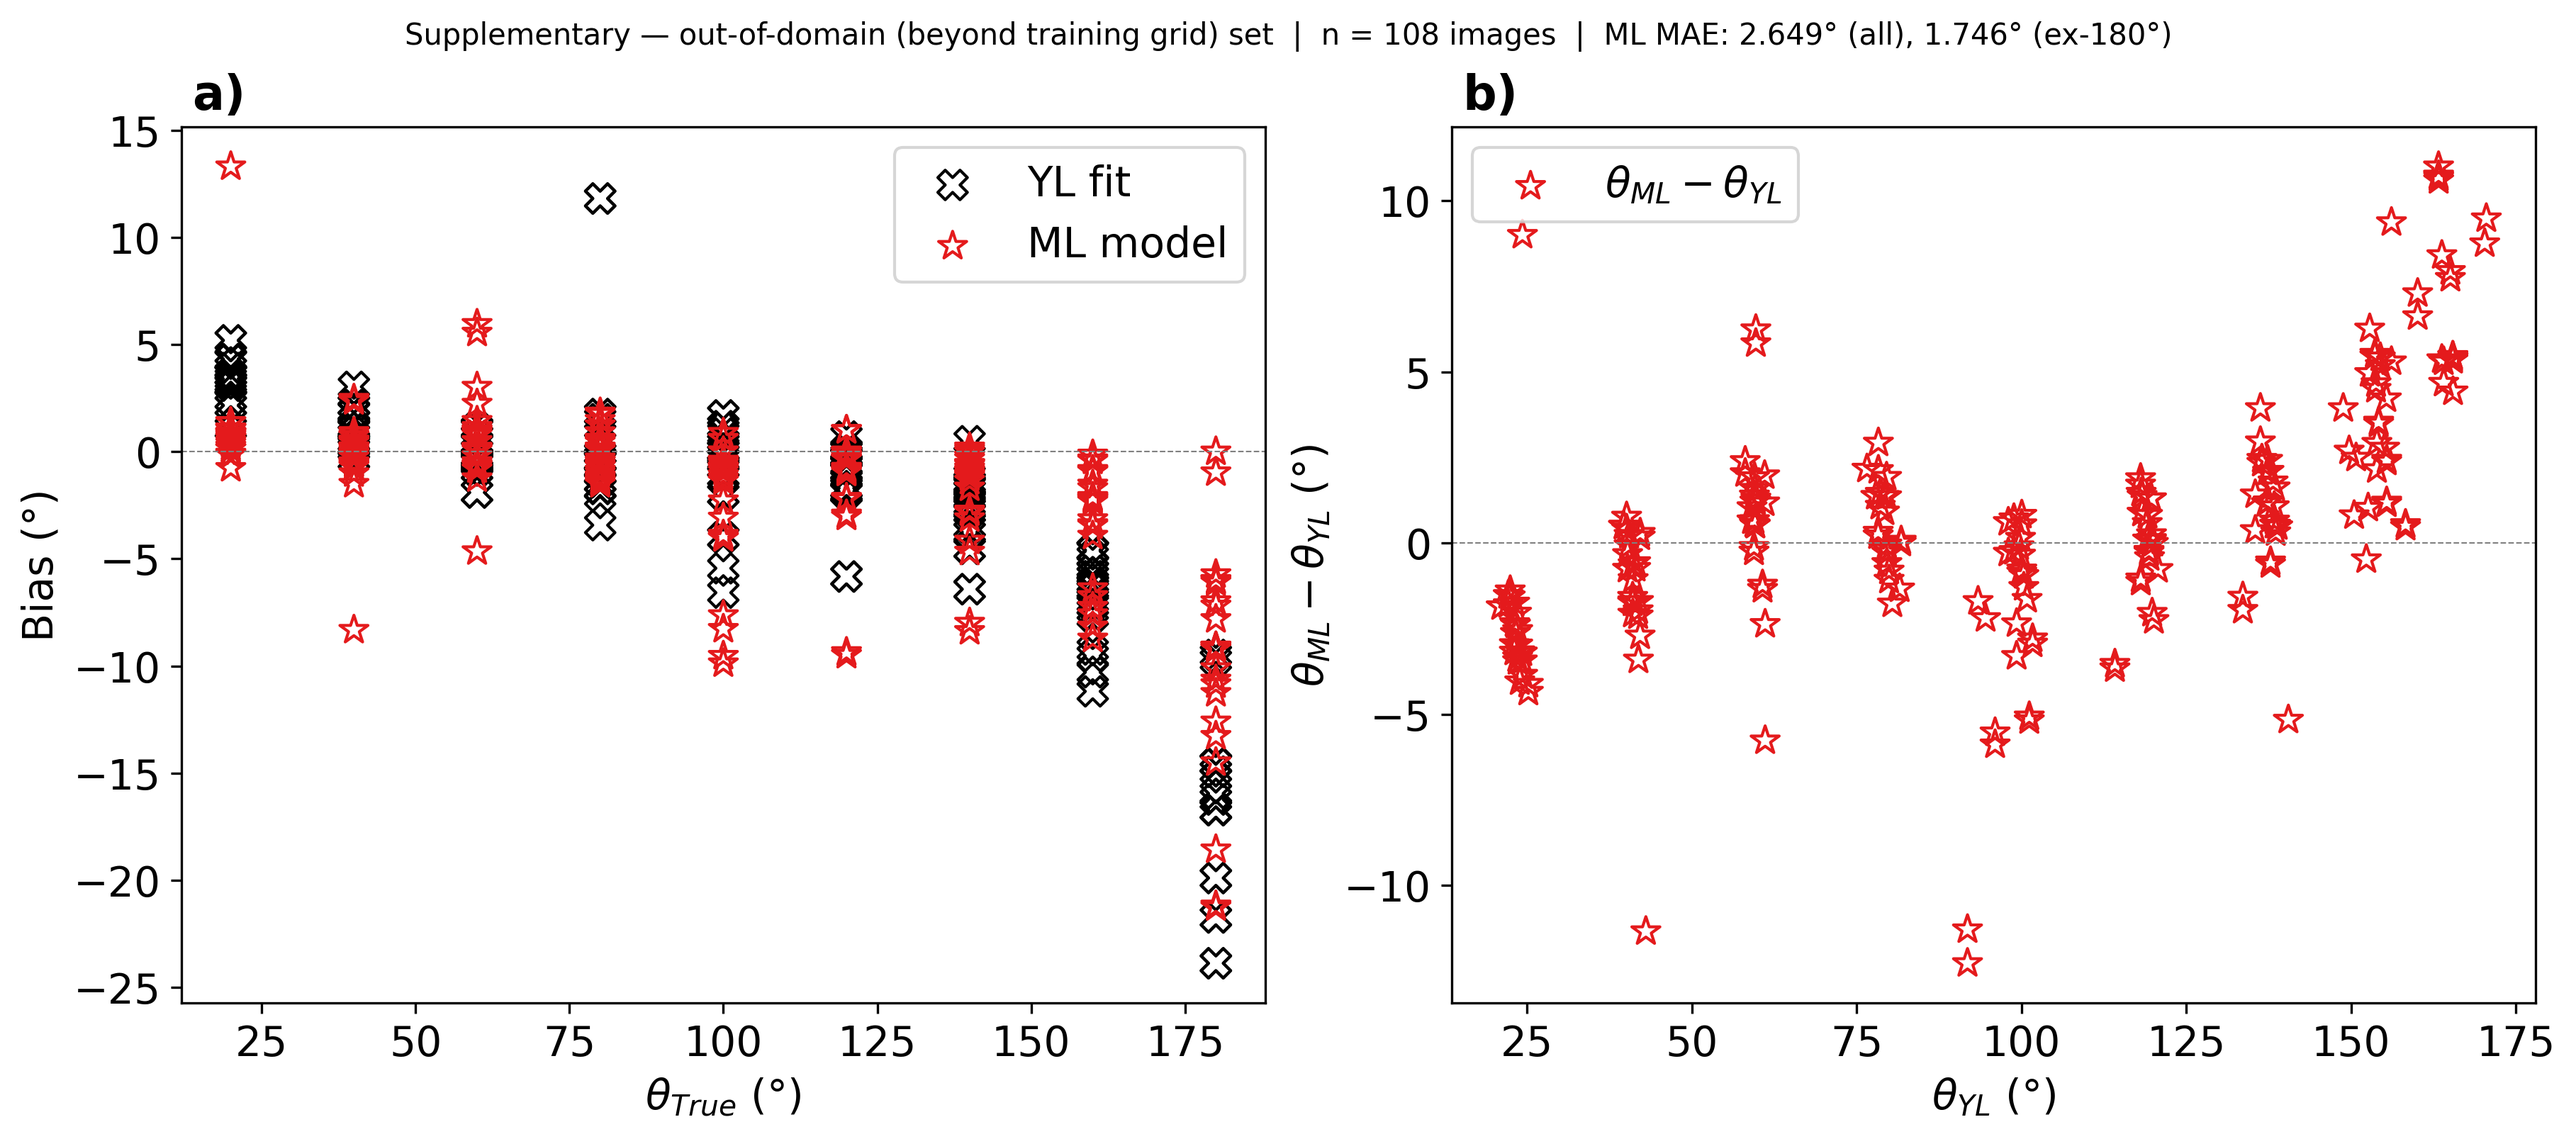
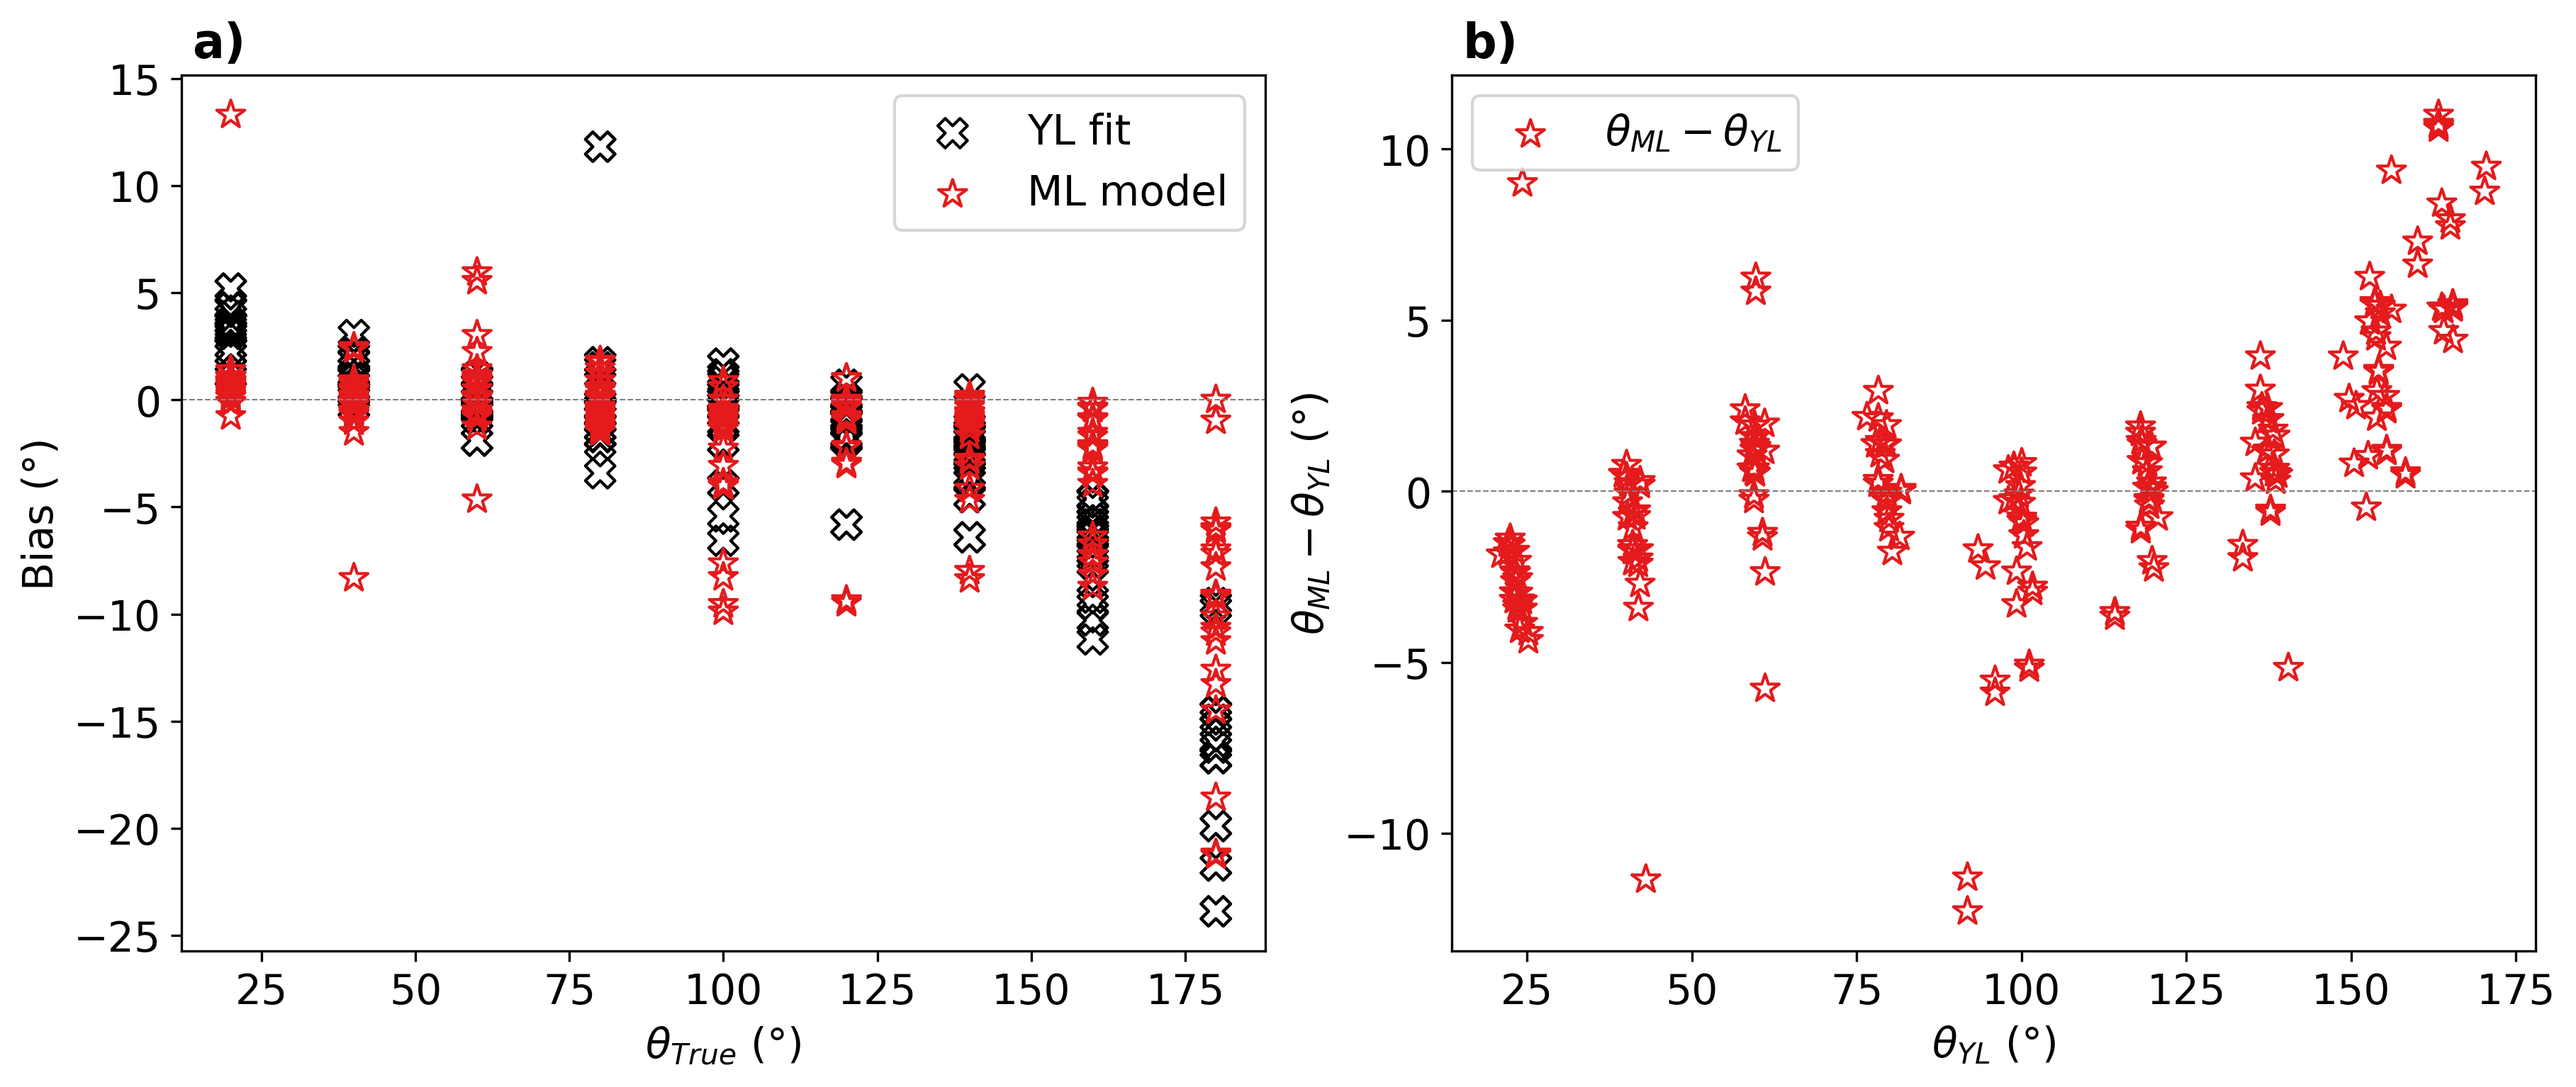
fix(paper_results): recurate the CP close-up composite and drop figure suptitles
Two related pieces of cleanup on the in-domain/out-of-domain synthetic
figures introduced in the previous commit:

Suptitles removed from synthetic_agreement_5panel[.png|_si_outdomain.png]
and synthetic_bias_and_disagreement[.png|_si_outdomain.png]. The n/MAE
label these carried belongs in the paper's own figure caption/title, so
drawing the same text on the image duplicated it and risked drifting out
of sync. domain_suptitle() renamed domain_summary_line(), kept only for
the console log and as the source of the numbers to quote in the caption.

The i)-iv) CP close-up walk-through candidates were still on-grid
filenames left over from before the off-grid/in-domain swap, so they
silently no-op'd. Reselected from the 216-image in-domain set by ML bias
(ml_angle - gt_angle) per side, all four now following the same
highest-bias-at-this-angle rule:

  i)   40.0_0.9500_2.8300_0.0090 right, bias -13.56 deg
  ii)  100.0_0.9500_2.8300_0.0030 right, bias -2.99 deg (highest |bias|)
  iii) 120.0_0.1500_1.4100_0.0030 left, bias -1.82 deg (second-highest
       |bias| at 120 deg, distinct image from the top pick)
  iv)  180.0_0.5500_1.4100_0.0090 left, bias 0.0 deg (maximum signed bias;
       ml_left_angle is exactly 180.0 -- a boundary clip, not a genuinely
       accurate prediction, kept because it is the true maximum)

Applied to both plot_synthetic.py's composite_systems (roman-numeral
annotations on both panels of synthetic_bias_and_disagreement.png, with
[…]

diff --git a/paper_results/plot/plot_synthetic.py b/paper_results/plot/plot_synthetic.py
@@ -4,11 +4,13 @@
 The synthetic set is placed off the training grid (PART2 §7.3.2), so each
 image carries an `in_domain` label (results/synthetic_matrix.csv):
 in-domain cells fall between training-grid points, out-of-domain cells lie
-beyond it. Per PART2 §7.3.3/D1′, these are reported as two separate,
-independently labelled figures rather than one panel with marked points --
-the in-domain set (216 images) is the main-text synthetic evaluation, and
-the out-of-domain set (108 images) is a supplementary robustness figure
-documenting how error behaves beyond the training grid.
+beyond it. Per PART2 §7.3.3/D1′, these are reported as two separate figures
+rather than one panel with marked points -- the in-domain set (216 images)
+is the main-text synthetic evaluation, and the out-of-domain set (108
+images) is a supplementary robustness figure documenting how error behaves
+beyond the training grid. Which figure is which, and the n/MAE for each,
+is stated in the paper's own figure caption/title rather than drawn on the
+image (see domain_summary_line() below for the numbers to quote there).
 
 Produces:
   - figures/synthetic/synthetic_agreement_5panel.png (main text, in-domain)
@@ -92,14 +94,20 @@ def mae_table(df):
     return pd.DataFrame(rows)
 
 
-def domain_suptitle(label, df, mt):
+# n and MAE are not drawn on the figures themselves -- the paper's own
+# figure caption/title states which set is which (main text vs SI) along
+# with these numbers, so baking them into the image would duplicate and
+# risk drifting from the caption text. domain_summary_line() is used only
+# for the console log below and for anyone regenerating these figures to
+# quote the same numbers in the caption.
+def domain_summary_line(label, df, mt):
     ml_row = mt.loc[mt.method == "ml"].iloc[0]
     return "{}  |  n = {} images  |  ML MAE: {:.3f}° (all), {:.3f}° (ex-180°)".format(
         label, len(df), ml_row["mae_all_angle"], ml_row["mae_excluding_180"]
     )
 
 
-def plot_agreement_5panel(df, suptitle, filename_suffix):
+def plot_agreement_5panel(df, filename_suffix):
     """3x2 multi-panel agreement scatter (5 methods, 6th panel removed).
 
     Matches legacy plot_synthetic_results.py In[13] layout:
@@ -139,11 +147,10 @@ def plot_agreement_5panel(df, suptitle, filename_suffix):
     for idx in range(len(FIGURE_METHODS), len(axes)):
         fig.delaxes(axes[idx])
 
-    fig.suptitle(suptitle, fontsize=10, y=1.01)
     save_figure(fig, SUBDIR, "synthetic_agreement_5panel{}.png".format(filename_suffix))
 
 
-def plot_bias_and_disagreement(df, suptitle, filename_suffix):
+def plot_bias_and_disagreement(df, filename_suffix):
     """Two-panel figure: bias vs true angle (YL + ML) and ML-YL disagreement.
 
     Reproduces legacy pred_vs_true_plots_experimental.py lines 1031-1053
@@ -234,25 +241,65 @@ def plot_bias_and_disagreement(df, suptitle, filename_suffix):
     axes[1].legend()
 
     # i)-iv) annotations linking to the curated systems shown in
-    # figures/CA_tangent_plots/synthetic_composite.png
+    # figures/CA_tangent_plots/synthetic_composite.png. Selected from the
+    # in-domain set (post PART2 7.3.2/7.3.3) by ML bias (ml_angle - gt_angle)
+    # per side: i) highest-bias 40 deg system, ii) highest-|bias| 100 deg
+    # system, iii) a high-but-not-the-single-highest-|bias| 120 deg system,
+    # iv) the highest-bias 180 deg system.
     composite_systems = [
         (
             "i)",
-            "20.0_0.6000000000000001_4.0_0.006_CPL_302_461_CPR_442_461_.png",
-            "left",
-            (0, 10),
+            "40.0_0.9500_2.8300_0.0090_CPL_273_461_CPR_471_461_.png",
+            "right",
+            (-12, 10),  # panel a: top-left
+            (-12, 10),  # panel b: top-left
         ),
-        ("ii)", "100.0_0.8_4.0_0.0_CPL_303_461_CPR_441_461_.png", "left", (-6, -26)),
-        ("iii)", "160.0_0.8_4.0_-0.03_CPL_331_447_CPR_413_447_.png", "left", (-6, 10)),
-        ("iv)", "180.0_1.0_1.0_0.006_CPL_234_461_CPR_510_461_.png", "left", (12, -14)),
+        (
+            "ii)",
+            "100.0_0.9500_2.8300_0.0030_CPL_274_461_CPR_470_461_.png",
+            "right",
+            (-12, -10),  # panel a: bottom-left
+            (-12, -10),  # panel b: bottom-left
+        ),
+        (
+            "iii)",
+            "120.0_0.1500_1.4100_0.0030_CPL_207_461_CPR_537_461_.png",
+            "left",
+            (-15, -10),  # panel a: bottom-left
+            (-15, -10),  # panel b: bottom-left
+        ),
+        (
+            # Maximum (signed, not absolute) 180 deg ML bias: ml_left_angle
+            # is exactly 180.0 here, i.e. bias == 0.0 -- an exact boundary
+            # clip (known trap), not a genuine near-perfect prediction. The
+            # next-highest genuine (non-clipped) value is -1.73 deg, at
+            # 180.0_0.9500_2.8300_0.0090 right.
+            "iv)",
+            "180.0_0.5500_1.4100_0.0090_CPL_296_461_CPR_448_461_.png",
+            "left",
+            (-13, -10),  # panel a: bottom-left
+            (15, -10),  # panel b: bottom-right
+        ),
     ]
-    for label, image_name, side, offset_b in composite_systems:
+    for label, image_name, side, offset_a, offset_b in composite_systems:
         row = df.loc[df["image_name"] == image_name]
         if row.empty:
             continue
         row = row.iloc[0]
+        gt_angle = row["gt_angle"]
         yl_angle = row[f"yl_{side}_angle"]
         ml_angle = row[f"ml_{side}_angle"]
+
+        # Panel a): Bias (ML - GT) vs true angle
+        axes[0].annotate(
+            label,
+            xy=(gt_angle, ml_angle - gt_angle),
+            xytext=offset_a,
+            textcoords="offset points",
+            ha="center",
+            fontsize=12,
+            fontweight="bold",
+        )
 
         # Panel b): (theta_ML - theta_YL) vs theta_YL
         axes[1].annotate(
@@ -265,7 +312,6 @@ def plot_bias_and_disagreement(df, suptitle, filename_suffix):
             fontweight="bold",
         )
 
-    fig.suptitle(suptitle, fontsize=10, y=1.04)
     save_figure(fig, SUBDIR, "synthetic_bias_and_disagreement{}.png".format(filename_suffix))
 
 
@@ -288,16 +334,15 @@ def main():
     for in_domain, suffix, label in DOMAIN_VARIANTS:
         subset = df[df["in_domain"] == in_domain].copy()
         mt = mae_table(subset)
-        suptitle = domain_suptitle(label, subset, mt)
         print()
-        print(suptitle)
+        print(domain_summary_line(label, subset, mt))
 
         mt.insert(0, "variant", "in_domain" if in_domain else "out_of_domain")
         mt.insert(1, "n_images", len(subset))
         summary_rows.append(mt)
 
-        plot_agreement_5panel(subset, suptitle, suffix)
-        plot_bias_and_disagreement(subset, suptitle, suffix)
+        plot_agreement_5panel(subset, suffix)
+        plot_bias_and_disagreement(subset, suffix)
 
     summary_path = os.path.join(RESULTS_DIR, "synthetic_domain_split_mae.csv")
     pd.concat(summary_rows, ignore_index=True).to_csv(summary_path, index=False)

diff --git a/paper_results/plot/plot_cp_comparison.py b/paper_results/plot/plot_cp_comparison.py
@@ -64,11 +64,16 @@ EXPERIMENTAL_IMAGES = [
 ]
 
 # File names (with extension) relative to paper_results/data/synthetic/
+# Curated from the in-domain set (PART2 7.3.2/7.3.3) by ML bias
+# (ml_angle - gt_angle) per side, matching plot_synthetic.py's
+# composite_systems: i) highest-bias 40 deg, ii) highest-|bias| 100 deg,
+# iii) high-but-not-the-single-highest-|bias| 120 deg, iv) maximum
+# (signed) bias 180 deg.
 SYNTHETIC_IMAGES = [
-    "20.0_0.6000000000000001_4.0_0.006_CPL_302_461_CPR_442_461_.png",
-    "100.0_0.8_4.0_0.0_CPL_303_461_CPR_441_461_.png",
-    "160.0_0.8_4.0_-0.03_CPL_331_447_CPR_413_447_.png",
-    "180.0_1.0_1.0_0.006_CPL_234_461_CPR_510_461_.png",
+    "40.0_0.9500_2.8300_0.0090_CPL_273_461_CPR_471_461_.png",
+    "100.0_0.9500_2.8300_0.0030_CPL_274_461_CPR_470_461_.png",
+    "120.0_0.1500_1.4100_0.0030_CPL_207_461_CPR_537_461_.png",
+    "180.0_0.5500_1.4100_0.0090_CPL_296_461_CPR_448_461_.png",
 ]
 
 # Panel labels overlaid on the top-left of each *_overview.svg (aligned to the
